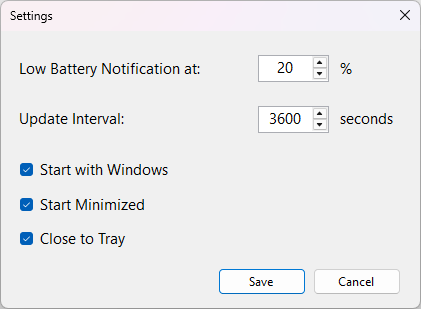
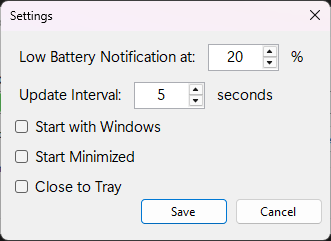
Updated docs

diff --git a/docs/README.md b/docs/README.md
@@ -39,6 +39,7 @@ A lightweight utility to monitor the battery of your Glorious mouse.
 ### Tested
 Devices that have been confirmed to work with the application:
 - Model D2 Pro 1k
+- Pulsar X3 Crazylight Mini
 
 ### Untested
 Devices that have not been tested but should work: